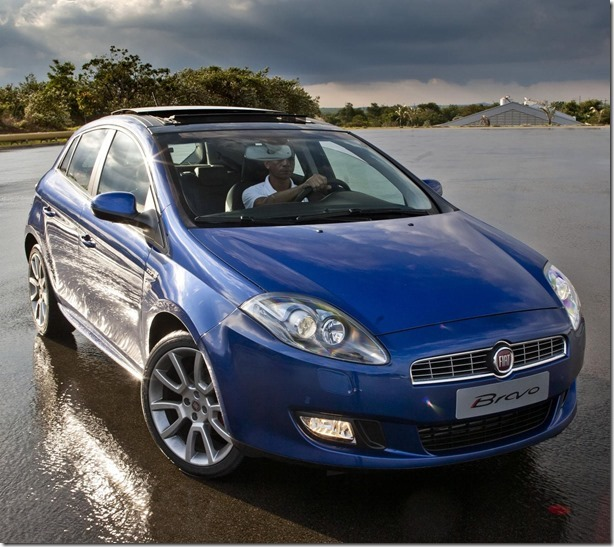
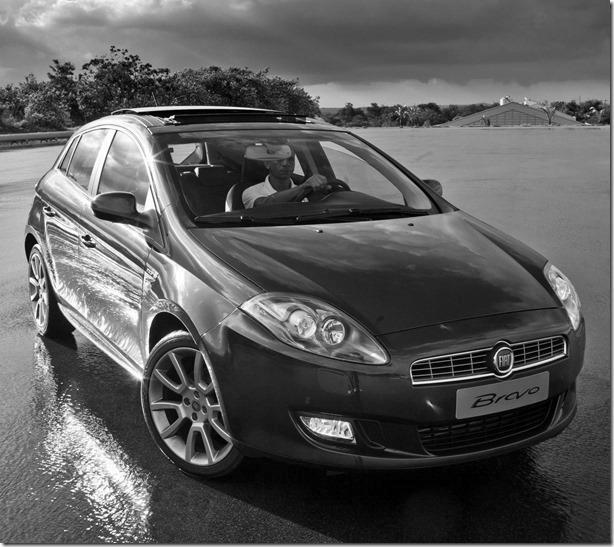
versão final

diff --git a/core.py b/core.py
@@ -354,7 +354,7 @@ class Filtros(object):
         matriz_aux = PixelAccessAux(imagem=self.imagem, mascara=mascara)
 
         soma_mascara = 0
-	for linha in mascara:
+        for linha in mascara:
             soma_mascara += sum(linha)
 
         for x, y in self._get_pontos_imagem(mascara=mascara):
@@ -382,7 +382,7 @@ class Filtros(object):
         """
         Detecção de bordas.
         """
-	if tecnica == 'sobel':
+        if tecnica == 'sobel':
             mascara_1 = self.sobel_1
             mascara_2 = self.sobel_2
         elif tecnica == 'robert':
@@ -415,8 +415,6 @@ class Filtros(object):
             matriz_aux[x, y] = (soma, soma, soma)
 
         mascara = Mascara(inicial=mascara_2)
-        matriz_aux2 = PixelAccessAux(imagem=self.imagem, mascara=mascara)
-
         # Aplica a máscara verticalmente.
         pontos_imagem = self._get_pontos_imagem(
             mascara=mascara,
@@ -439,58 +437,6 @@ class Filtros(object):
             elif soma > 255:
                 soma = 255
             self.imagem.pixels[x, y] = (soma, soma, soma)
-
-    def robert(self, **kwargs):
-        """
-        Aplicação da técnica de Sobel.
-        """
-        mascara = Mascara(inicial=self.robert_1)
-        matriz_aux = PixelAccessAux(imagem=self.imagem, mascara=mascara)
-
-        # Aplica a máscara horizontalmente.
-        for x, y in self._get_pontos_imagem(mascara=mascara):
-            soma = 0
-            for i in mascara.range_tamanho_borda:
-                for j in mascara.range_tamanho_borda:
-                    x_vizinho = x - mascara.tamanho_borda + i
-                    y_vizinho = y - mascara.tamanho_borda + j
-                    pixel_vizinho = self.imagem.pixels[x_vizinho, y_vizinho][0]
-
-                    valor_mascara = mascara[i][j]
-                    soma += pixel_vizinho * valor_mascara
-
-            soma = int(soma)
-            if soma < 0:
-                soma = 0
-            elif soma > 255:
-                soma = 255
-            matriz_aux[x, y] = (soma, soma, soma)
-
-        mascara = Mascara(inicial=self.robert_2)
-        matriz_aux2 = PixelAccessAux(imagem=self.imagem, mascara=mascara)
-
-        # Aplica a máscara verticalmente.
-        pontos_imagem = self._get_pontos_imagem(
-            mascara=mascara,
-        )
-        for x, y in pontos_imagem:
-            soma = 0
-            for i in mascara.range_tamanho_borda:
-                for j in mascara.range_tamanho_borda:
-                    x_vizinho = x - mascara.tamanho_borda + j
-                    y_vizinho = y - mascara.tamanho_borda + i
-                    pixel_vizinho = matriz_aux[x_vizinho, y_vizinho][0]
-
-                    valor_mascara = mascara[i][j]
-                    soma += pixel_vizinho * valor_mascara
-
-            soma = int(soma)
-            if soma < 0:
-                soma = 0
-            elif soma > 255:
-                soma = 255
-            self.imagem.pixels[x, y] = (soma, soma, soma)
-             
 
 
 class Operacoes(object):
@@ -541,6 +487,20 @@ class Operacoes(object):
             pixel = self.imagem.pixels[x, y][0]
             pixel_segunda_imagem = segunda_imagem.pixels[x, y][0]
             pixel_and = pixel | pixel_segunda_imagem
+            self.imagem.pixels[x, y] = (pixel_and, pixel_and, pixel_and)
+
+    def operador_xor(self, segunda_imagem=None):
+        """
+        Implementação do operador lógico OR.
+        """
+        minimo_x = min(self.imagem.imagem.width, segunda_imagem.imagem.width)
+        minimo_y = min(self.imagem.imagem.height, segunda_imagem.imagem.height)
+        pixels = self.imagem._get_xy(x_final=minimo_x, y_final=minimo_y)
+
+        for x, y in pixels:
+            pixel = self.imagem.pixels[x, y][0]
+            pixel_segunda_imagem = segunda_imagem.pixels[x, y][0]
+            pixel_and = pixel ^ pixel_segunda_imagem
             self.imagem.pixels[x, y] = (pixel_and, pixel_and, pixel_and)
 
     def operador_soma(self, segunda_imagem=None):

diff --git a/main.py b/main.py
@@ -46,19 +46,21 @@ class MainLayout(BoxLayout):
         self.salvar_imagem(caminho_imagem=self.caminho_temp)
         self.carregar_imagem(caminho_imagem=self.caminho_temp)
 
+    def salvar_imagem(self, caminho_imagem):
+        """
+        Salva a imagem.
+        """
+        self.imagem_core.salvar(novo_caminho_imagem=caminho_imagem)
+
     def carregar_imagem(self, caminho_imagem):
         """
         Carrega uma imagem.
         """
         self.imagem.source = caminho_imagem
         self.imagem_core = Imagem(caminho_imagem)
+        self.imagem_core.converter_escala_cinza()
+        self.salvar_imagem(caminho_imagem)
         self.imagem.reload()
-
-    def salvar_imagem(self, caminho_imagem):
-        """
-        Salva a imagem.
-        """
-        self.imagem_core.salvar(novo_caminho_imagem=caminho_imagem)
 
     def limpar(self):
         """
@@ -66,13 +68,6 @@ class MainLayout(BoxLayout):
         """
         for widget in self.widgets_dinamicos:
             self.remove_widget(widget)
-
-    def mostrar_imagem_cinza(self):
-        """
-        Mostra a imagem em escala de cinza.
-        """
-        self.imagem_core.converter_escala_cinza()
-        self.recarregar_imagem()
 
     def mostrar_imagem_equalizada(self):
         """
@@ -107,15 +102,15 @@ class MainLayout(BoxLayout):
         Aplica um filtro na imagem.
         """
         if tecnica:
-	    self.imagem_core.aplicar_filtro(
-	        nome_filtro=nome_filtro,
+            self.imagem_core.aplicar_filtro(
+                nome_filtro=nome_filtro,
                 tecnica=tecnica
-	    )
+            )
         else:
-	    self.imagem_core.aplicar_filtro(
-	        nome_filtro=nome_filtro,
-   	        mascara=mascara,
-	    )
+            self.imagem_core.aplicar_filtro(
+                nome_filtro=nome_filtro,
+                mascara=mascara,
+            )
         self.recarregar_imagem()
 
     def aplicar_operacao(self, operacao, imagem=None):
@@ -125,7 +120,11 @@ class MainLayout(BoxLayout):
         operacoes = Operacoes(self.imagem_core)
         metodo_operacao = getattr(operacoes, operacao, None)
         if metodo_operacao:
-            metodo_operacao(imagem)
+            if imagem:
+                imagem.converter_escala_cinza()
+                metodo_operacao(imagem)
+            else:
+                metodo_operacao()
         self.recarregar_imagem()
 
 

diff --git a/utils.py b/utils.py
@@ -112,8 +112,6 @@ class MascaraDialog(Janela):
         """
         Aplica uma máscara para um determinado filtro.
         """
-        self.fechar()
-
         mascara = Mascara()
         dimensao = int(self.input_dimensao_mascara.text)
 
@@ -132,6 +130,7 @@ class MascaraDialog(Janela):
             nome_filtro=self.nome_filtro,
             mascara=mascara
         )
+        self.fechar()
 
 
 class MatrizAux(object):

diff --git a/menus.py b/menus.py
@@ -115,7 +115,7 @@ class MenuOperacoes(Menu):
         """
         Aplica uma operação sobre a imagem.
         """
-        if operacao == 'not':
+        if operacao == 'operador_not':
             app.main_layout.aplicar_operacao(operacao=operacao)
         else:
             janela = LoadDialog(origem='operacoes', operacao=operacao)
